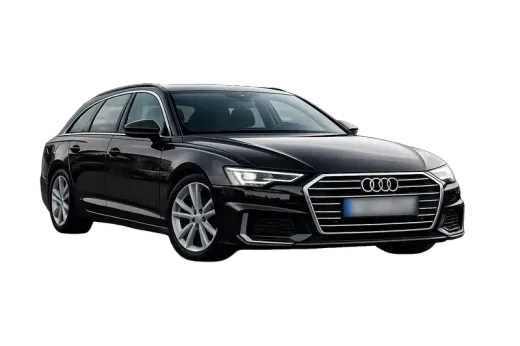
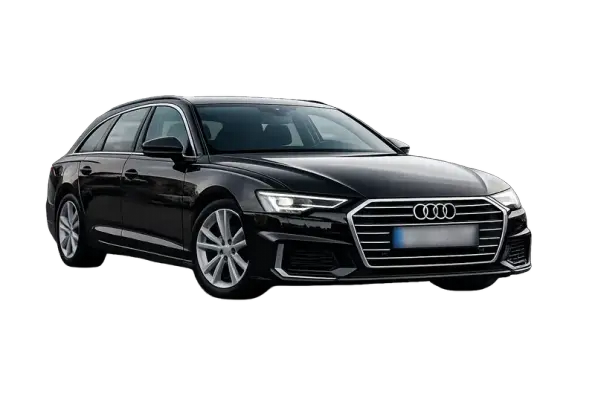
optimize images for mobile + disable Cloudflare RUM

diff --git a/index.html b/index.html
@@ -188,8 +188,8 @@
             </div>
             <div class="hero-car-mobile">
                 <div class="car-carousel">
-                    <img src="/assets/auditaxi1.webp" srcset="/assets/mobile/auditaxi1.webp 520w, /assets/auditaxi1.webp 800w" sizes="(max-width: 768px) 100vw, 800px" alt="Premium Transferi Zagreb vozilo" class="car-slide active" width="800" height="533">
-                    <img src="/assets/auto2.webp" srcset="/assets/mobile/auto2.webp 520w, /assets/auto2.webp 800w" sizes="(max-width: 768px) 100vw, 800px" alt="Premium Transferi Zagreb vozilo" class="car-slide" width="800" height="533">
+                    <img src="/assets/auditaxi1.webp" srcset="/assets/mobile/auditaxi1.webp 595w, /assets/auditaxi1.webp 800w" sizes="(max-width: 768px) 100vw, 800px" alt="Premium Transferi Zagreb vozilo" class="car-slide active" width="800" height="533">
+                    <img src="/assets/auto2.webp" srcset="/assets/mobile/auto2.webp 595w, /assets/auto2.webp 800w" sizes="(max-width: 768px) 100vw, 800px" alt="Premium Transferi Zagreb vozilo" class="car-slide" width="800" height="533">
                     <img src="/assets/auto3a.webp" srcset="/assets/mobile/auto3a.webp 520w, /assets/auto3a.webp 800w" sizes="(max-width: 768px) 100vw, 800px" alt="Premium Transferi Zagreb vozilo" class="car-slide" width="800" height="533">
                 </div>
             </div>
@@ -199,8 +199,8 @@
                 </a>
                 <div class="car-glow"></div>
                 <div class="car-carousel">
-                    <img src="/assets/auditaxi1.webp" srcset="/assets/mobile/auditaxi1.webp 520w, /assets/auditaxi1.webp 800w" sizes="(max-width: 768px) 100vw, 800px" alt="Premium Transferi Zagreb vozilo" class="car-slide active" width="800" height="533">
-                    <img src="/assets/auto2.webp" srcset="/assets/mobile/auto2.webp 520w, /assets/auto2.webp 800w" sizes="(max-width: 768px) 100vw, 800px" alt="Premium Transferi Zagreb vozilo" class="car-slide" width="800" height="533">
+                    <img src="/assets/auditaxi1.webp" srcset="/assets/mobile/auditaxi1.webp 595w, /assets/auditaxi1.webp 800w" sizes="(max-width: 768px) 100vw, 800px" alt="Premium Transferi Zagreb vozilo" class="car-slide active" width="800" height="533">
+                    <img src="/assets/auto2.webp" srcset="/assets/mobile/auto2.webp 595w, /assets/auto2.webp 800w" sizes="(max-width: 768px) 100vw, 800px" alt="Premium Transferi Zagreb vozilo" class="car-slide" width="800" height="533">
                     <img src="/assets/auto3a.webp" srcset="/assets/mobile/auto3a.webp 520w, /assets/auto3a.webp 800w" sizes="(max-width: 768px) 100vw, 800px" alt="Premium Transferi Zagreb vozilo" class="car-slide" width="800" height="533">
                 </div>
             </div>

diff --git a/en/index.html b/en/index.html
@@ -188,8 +188,8 @@
             </div>
             <div class="hero-car-mobile">
                 <div class="car-carousel">
-                    <img src="/assets/auditaxi1.webp" alt="Premium Transferi Zagreb vehicle" class="car-slide active" width="800" height="533">
-                    <img src="/assets/auto2.webp" alt="Premium Transferi Zagreb vehicle" class="car-slide" width="800" height="533">
+                    <img src="/assets/auditaxi1.webp" srcset="/assets/mobile/auditaxi1.webp 595w, /assets/auditaxi1.webp 800w" sizes="(max-width: 768px) 100vw, 800px" alt="Premium Transferi Zagreb vehicle" class="car-slide active" width="800" height="533">
+                    <img src="/assets/auto2.webp" srcset="/assets/mobile/auto2.webp 595w, /assets/auto2.webp 800w" sizes="(max-width: 768px) 100vw, 800px" alt="Premium Transferi Zagreb vehicle" class="car-slide" width="800" height="533">
                     <img src="/assets/auto3a.webp" alt="Premium Transferi Zagreb vehicle" class="car-slide" width="800" height="533">
                 </div>
             </div>
@@ -199,8 +199,8 @@
                 </a>
                 <div class="car-glow"></div>
                 <div class="car-carousel">
-                    <img src="/assets/auditaxi1.webp" alt="Premium Transferi Zagreb vehicle" class="car-slide active" width="800" height="533">
-                    <img src="/assets/auto2.webp" alt="Premium Transferi Zagreb vehicle" class="car-slide" width="800" height="533">
+                    <img src="/assets/auditaxi1.webp" srcset="/assets/mobile/auditaxi1.webp 595w, /assets/auditaxi1.webp 800w" sizes="(max-width: 768px) 100vw, 800px" alt="Premium Transferi Zagreb vehicle" class="car-slide active" width="800" height="533">
+                    <img src="/assets/auto2.webp" srcset="/assets/mobile/auto2.webp 595w, /assets/auto2.webp 800w" sizes="(max-width: 768px) 100vw, 800px" alt="Premium Transferi Zagreb vehicle" class="car-slide" width="800" height="533">
                     <img src="/assets/auto3a.webp" alt="Premium Transferi Zagreb vehicle" class="car-slide" width="800" height="533">
                 </div>
             </div>
